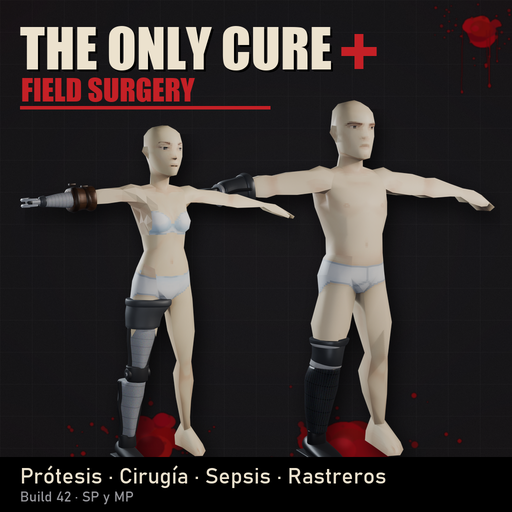
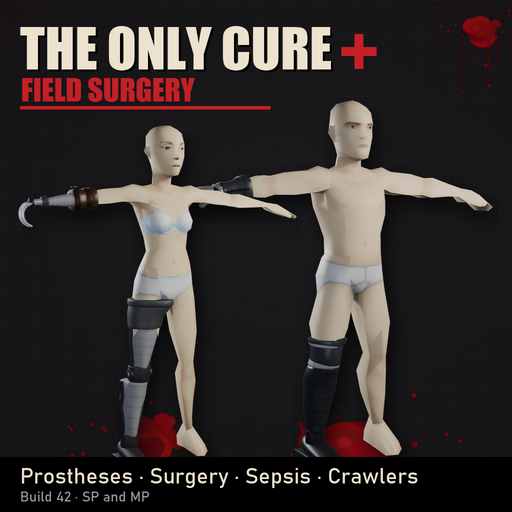
3.1.0: Workshop images, English poster, shorter description
- Workshop cards re-rendered with the 3.1.0 models; new cards for the chainsaw arm
  and for crawling ("zombies do not ignore you on the ground"); the arms card shows
  the above-elbow level; the items card adds the chainsaw arm.
- The mod poster/icon come from the English images.
- Workshop descriptions under Steam's 8000-character limit (changelog summarised,
  full history linked to CHANGELOG.md).

diff --git a/tools/make_workshop.py b/tools/make_workshop.py
@@ -18,6 +18,7 @@ EN = {
     "Cirugía de campo por etapas · Infección y sepsis": "Staged field surgery · Infection and sepsis",
     "Prótesis por niveles que encajan de verdad": "Prostheses that fit the stump, level by level",
     "Piernas, muletas y arrastre · Zombis rastreros": "Legs, crutches and crawling · Crawler zombies",
+    "Piernas, muletas y arrastre · Brazo motosierra": "Legs, crutches and crawling · Chainsaw arm",
     "Build 42 · Singleplayer y multijugador": "Build 42 · Singleplayer and multiplayer",
     "Fork de The Only Cure (ZioPao) · GPL-3.0": "Fork of The Only Cure (ZioPao) · GPL-3.0",
     "Prótesis · Cirugía · Sepsis · Rastreros": "Prostheses · Surgery · Sepsis · Crawlers",
@@ -28,6 +29,17 @@ EN = {
     "Caben bajo el pantalón": "They fit under trousers", "Se desgastan y se reparan": "They wear out and can be repaired",
     "PRÓTESIS DE BRAZO": "ARM PROSTHESES",
     "Brazo de madera · Gancho · Brazo mecánico · Brazo médico — por mano o por antebrazo": "Wooden arm · Hook · Mechanical arm · Medical arm — for a missing hand or forearm",
+    "Madera · Gancho · Mecánico · Médico — sin mano, sin antebrazo o sin brazo entero": "Wood · Hook · Mechanical · Medical — for a missing hand, forearm or whole arm",
+    "Por encima del codo: bisagra de codo": "Above the elbow: elbow hinge",
+    "Brazo motosierra": "Chainsaw Arm",
+    "Brazo motosierra estilo Ash: el motor al muñón, la espada en línea con el antebrazo": "Ash-style chainsaw arm: motor bolted to the stump, bar in line with the forearm",
+    "Tirón de arranque (la Mecánica ayuda)": "Pull-start (Mechanics helps)", "Depósito de 0,5 L: échale gasolina": "0.5 L tank: refuel with petrol",
+    "En marcha corta zombis y extremidades": "Running, it cuts zombies and limbs", "Ruido: lo oyen desde lejos": "Loud: they hear it from afar",
+    "Mano izquierda libre": "Left hand stays free", "Sólo brazo derecho": "Right arm only", "Mano, antebrazo o brazo entero": "Hand, forearm or whole arm",
+    "TUMBADO": "ON THE GROUND", "NO ESTÁS A SALVO": "YOU ARE NOT SAFE",
+    "Arrastrarte no te esconde: los zombis te ven, te oyen y te alcanzan.": "Crawling does not hide you: zombies see you, hear you and catch up.",
+    "Los zombis no te ignoran en el suelo": "Zombies do not ignore you on the ground", "Te mueves a paso de rastrero": "You move at a crawler's pace",
+    "Busca una muleta o una prótesis": "Find a crutch or a prosthesis", "Opera en un sitio cerrado": "Operate somewhere closed",
     "Cada tier con sus limitaciones": "Each tier has its limits", "Gancho: nada que exija dedos": "Hook: nothing that needs fingers",
     "Mecánico y médico: armas a dos manos": "Mechanical and medical: two-handed weapons", "Familiaridad con prótesis": "Prosthesis Familiarity skill",
     "CIRUGÍA DE CAMPO": "FIELD SURGERY",
@@ -199,12 +211,12 @@ def make_hero(w=1920, h=1080):
     d.text((200, 330), "FIELD SURGERY", font=font(F_TITLE, 120), fill=BONE)
     d.rectangle((84, 470, 820, 480), fill=RED)
     lines = ["Cirugía de campo por etapas · Infección y sepsis", "Prótesis por niveles que encajan de verdad",
-             "Piernas, muletas y arrastre · Zombis rastreros", "Build 42 · Singleplayer y multijugador"]
+             "Piernas, muletas y arrastre · Brazo motosierra", "Build 42 · Singleplayer y multijugador"]
     fy = 505
     for ln in lines:
         d.text((90, fy), ln, font=font(F_BODY, 40), fill=(215, 210, 200)); fy += 56
     d.text((90, h - 70), "Fork de The Only Cure (ZioPao) · GPL-3.0", font=font(F_BODY, 30), fill=GREY)
-    paste_render(img, "bonesaw", (380, 700, 980, 1040), rotate=-62)
+    paste_render(img, "bonesaw", (470, 730, 960, 1000), rotate=-62)
     img.convert("RGB").save(os.path.join(OUT, "hero.png")); print("hero.png")
 
 def make_preview(size=1024):
@@ -251,7 +263,7 @@ def make_card(name, renders, title, sub, bullets, w=1600, h=900, blood_before=()
     img.convert("RGB").save(os.path.join(OUT, "card_%s.png" % name)); print("card_%s.png" % name)
 
 ITEMS = [("BoneSaw", "Sierra de hueso"), ("SurgicalKit", "Kit quirúrgico"), ("FieldSurgeryGuide", "Guía de cirugía"), ("Crutch", "Muleta"), ("LegTourniquet", "Torniquete de pierna"),
-         ("PegArm", "Brazo de madera"), ("HookArm", "Gancho"), ("MechArm", "Brazo mecánico"), ("MedicalArm", "Brazo médico"),
+         ("PegArm", "Brazo de madera"), ("HookArm", "Gancho"), ("MechArm", "Brazo mecánico"), ("MedicalArm", "Brazo médico"), ("ChainsawArm", "Brazo motosierra"),
          ("PegLeg", "Pata de palo"), ("MechLeg", "Pierna mecánica"), ("MedicalLeg", "Pierna médica"),
          ("SeveredHand", "Mano cercenada"), ("SeveredForeArm", "Antebrazo cercenado"), ("SeveredUpperArm", "Brazo cercenado"),
          ("SeveredFoot", "Pie cercenado"), ("SeveredLowerLeg", "Pantorrilla cercenada"), ("SeveredUpperLeg", "Muslo cercenado")]
@@ -265,15 +277,18 @@ def make_items_card(w=1600, h=900):
     d.text((44, 34), "NUEVOS ÍTEMS", font=font(F_TITLE, 84), fill=(0, 0, 0)); d.text((40, 30), "NUEVOS ÍTEMS", font=font(F_TITLE, 84), fill=BONE)
     d.rectangle((40, 122, 40 + d.textlength("NUEVOS ÍTEMS", font=font(F_TITLE, 84)), 128), fill=RED)
     d.text((40, 140), "Iconos 32x32 renderizados de los modelos · todos con modelo 3D en el suelo", font=font(F_BODY, 32), fill=GREY)
-    cols, cell, x0, y0 = 6, 170, 40, 200
+    cols, cell, x0, y0 = 7, 150, 40, 200
     fl = font(F_BODY, 20)
     for i, (nm, label) in enumerate(ITEMS):
-        cx = x0 + (i % cols) * (cell + 18); cy = y0 + (i // cols) * (cell + 16)
+        cx = x0 + (i % cols) * (cell + 14); cy = y0 + (i // cols) * (cell + 16)
         d.rounded_rectangle((cx, cy, cx + cell, cy + cell), radius=10, fill=(0, 0, 0, 110), outline=(255, 255, 255, 25))
-        ic = Image.open(os.path.join(TEXD, "Item_%s.png" % nm)).convert("RGBA").resize((112, 112), Image.NEAREST)
-        img.alpha_composite(ic, (cx + (cell - 112) // 2, cy + 10))
-        tw = d.textlength(label, font=fl)
-        d.text((cx + (cell - tw) / 2, cy + cell - 36), label, font=fl, fill=(225, 220, 210))
+        ic = Image.open(os.path.join(TEXD, "Item_%s.png" % nm)).convert("RGBA").resize((96, 96), Image.NEAREST)
+        img.alpha_composite(ic, (cx + (cell - 96) // 2, cy + 12))
+        fsz = 20; fl2 = fl
+        while d.textlength(label, font=fl2) > cell - 10 and fsz > 13:
+            fsz -= 1; fl2 = font(F_BODY, fsz)
+        tw = d.textlength(label, font=fl2)
+        d.text((cx + (cell - tw) / 2, cy + cell - 34), label, font=fl2, fill=(225, 220, 210))
     d.text((1180, 200), "En el suelo", font=font(F_BOLD, 26), fill=GREY)
     paste_render(img, "prop_hook", (1180, 240, 1560, 440))
     paste_render(img, "prop_mechleg", (1180, 440, 1560, 640))
@@ -396,6 +411,60 @@ def make_noise_card(w=1600, h=900):
         d.rectangle((x, h - 44, x + 10, h - 34), fill=RED); d.text((x + 20, h - 52), b, font=fb, fill=(220, 215, 205)); x += d.textlength(b, font=fb) + 60
     img.convert("RGB").save(os.path.join(OUT, "card_noise.png")); print("card_noise.png")
 
+
+def footer(img, d, bullets, w, h):
+    d.rectangle((0, h - 100, w, h), fill=(0, 0, 0, 170))
+    fb = font(F_BODY, 26); x = 40; yy = h - 86
+    for b in bullets:
+        tw = d.textlength(b, font=fb)
+        if x + tw + 30 > w - 40: x = 40; yy += 34
+        d.rectangle((x, yy + 8, x + 10, yy + 18), fill=RED); d.text((x + 20, yy), b, font=fb, fill=(220, 215, 205)); x += tw + 60
+
+def make_chainsaw_card(w=1600, h=900):
+    """Brazo motosierra: el golpe en grande, el brazo en reposo y el acople de cerca."""
+    img = background(w, h, 314).convert("RGBA")
+    red_vignette(img, 120)
+    add_blood(img, [(300, 640, 130, 0), (560, 420, 70, 2), (170, 760, 90, 1), (1460, 820, 80, 0)], seed=66)
+    paste_render(img, "saw_attack", (-20, 215, 840, 900))
+    paste_render(img, "saw_idle", (830, 225, 1220, 885), soft=True)
+    box = (1235, 235, 1580, 580)
+    d = ImageDraw.Draw(img, "RGBA")
+    d.rounded_rectangle((box[0] - 6, box[1] - 6, box[2] + 6, box[3] + 6), radius=14, fill=(0, 0, 0, 150), outline=(196, 32, 38, 200), width=3)
+    paste_render(img, "saw_close", box, shadow=False)
+    add_blood(img, [(560, 430, 50, 3), (600, 470, 30, 4)], seed=77)
+    d = ImageDraw.Draw(img)
+    d.text((44, 34), "GROOVY.", font=font(F_TITLE, 96), fill=(0, 0, 0)); d.text((40, 30), "GROOVY.", font=font(F_TITLE, 96), fill=RED)
+    d.rectangle((40, 136, 40 + d.textlength("GROOVY.", font=font(F_TITLE, 96)), 143), fill=BONE)
+    d.text((40, 156), "Brazo motosierra estilo Ash: el motor al muñón, la espada en línea con el antebrazo", font=font(F_BODY, 30), fill=(215, 210, 200))
+    d.text((box[0], box[3] + 14), "Mano, antebrazo o brazo entero", font=font(F_BODY, 22), fill=GREY)
+    footer(img, d, ["Tirón de arranque (la Mecánica ayuda)", "Depósito de 0,5 L: échale gasolina", "En marcha corta zombis y extremidades",
+                    "Ruido: lo oyen desde lejos", "Mano izquierda libre", "Sólo brazo derecho"], w, h)
+    img.convert("RGB").save(os.path.join(OUT, "card_chainsaw.png")); print("card_chainsaw.png")
+
+def make_findyou_card(w=1600, h=900):
+    """Aclara lo que la frase vieja del arrastre daba a entender: en el suelo los zombis NO te ignoran."""
+    img = background(w, h, 271).convert("RGBA")
+    red_vignette(img, 140)
+    d = ImageDraw.Draw(img, "RGBA")
+    d.polygon([(0, 600), (w, 560), (w, h), (0, h)], fill=(30, 28, 30, 255))
+    for y in range(580, h, 28): d.line((0, y + 20, w, y), fill=(255, 255, 255, 6))
+    blood_smear(img, (1180, 720), (720, 780), 60, seed=9)
+    # zombis acercándose desde los lados y desde el fondo
+    zs = [("noise_zombie0", (40, 330, 400, 880)), ("noise_zombie1", (1190, 300, 1560, 880)), ("noise_zombie2", (990, 300, 1240, 700))]
+    for name, b in zs: paste_render(img, name, b, mirror=(name == "noise_zombie0"))
+    pbox = paste_render(img, "crawl2", (360, 470, 1160, 880))
+    add_blood(img, [(pbox[0] + 470, pbox[3] - 90, 55, 0)], seed=19)
+    d = ImageDraw.Draw(img)
+    cx, cy = (pbox[0] + pbox[2]) // 2, (pbox[1] + pbox[3]) // 2 + 20
+    for (x0, y0) in ((320, 580), (1270, 560), (1100, 520)):
+        arrow(d, (x0, y0), (cx + (x0 - cx) * 0.35, cy + (y0 - cy) * 0.35), (196, 32, 38, 255), width=6, head=22)
+    d.text((44, 34), "TUMBADO", font=font(F_TITLE, 96), fill=(0, 0, 0)); d.text((40, 30), "TUMBADO", font=font(F_TITLE, 96), fill=BONE)
+    d.text((40, 130), "NO ESTÁS A SALVO", font=font(F_TITLE, 96), fill=RED)
+    d.rectangle((40, 236, 40 + d.textlength("NO ESTÁS A SALVO", font=font(F_TITLE, 96)), 243), fill=RED)
+    d.text((40, 262), "Arrastrarte no te esconde: los zombis te ven, te oyen y te alcanzan.", font=font(F_BODY, 32), fill=(215, 210, 200))
+    footer(img, d, ["Los zombis no te ignoran en el suelo", "Te mueves a paso de rastrero", "Ni correr ni esprintar", "Busca una muleta o una prótesis"], w, h)
+    img.convert("RGB").save(os.path.join(OUT, "card_findyou.png")); print("card_findyou.png")
+
 def make_poster(size=512):
     img = Image.open(os.path.join(OUT, "preview.png")).convert("RGB").resize((size, size), Image.LANCZOS)
     img.save(os.path.join(OUT, "poster.png")); print("poster.png")
@@ -409,8 +478,10 @@ if __name__ == "__main__":
     make_card("legs", ["legs_peg", "legs_mech", "legs_medical"], "PRÓTESIS DE PIERNA", "Pata de palo · Pierna mecánica · Pierna médica — por nivel de amputación: pie, pantorrilla o muslo",
               ["Encajes a la medida del muñón", "Rodilla articulada en las de muslo", "Caben bajo el pantalón", "Se desgastan y se reparan"],
               blood_before=[(120, 800, 90, 0), (1380, 780, 70, 0)], vignette=50)
-    make_card("arms", ["arms_peg", "arms_hook", "arms_mech", "arms_medical"], "PRÓTESIS DE BRAZO", "Brazo de madera · Gancho · Brazo mecánico · Brazo médico — por mano o por antebrazo",
-              ["Cada tier con sus limitaciones", "Gancho: nada que exija dedos", "Mecánico y médico: armas a dos manos", "Familiaridad con prótesis"])
+    make_card("arms", ["arms_peg", "arms_hook", "arms_mech", "arms_medical"], "PRÓTESIS DE BRAZO", "Madera · Gancho · Mecánico · Médico — sin mano, sin antebrazo o sin brazo entero",
+              ["Cada tier con sus limitaciones", "Gancho: nada que exija dedos", "Mecánico y médico: armas a dos manos", "Por encima del codo: bisagra de codo"])
+    make_chainsaw_card()
+    make_findyou_card()
     make_card("surgery", ["stumps", "bonesaw", "crutch"], "CIRUGÍA DE CAMPO", "Prepara, incide, sierra, sutura y venda — con riesgo real, gritos y desmayos",
               ["Ventana de cura e infección visible", "Sepsis y convalecencia", "Sierra de hueso y kit quirúrgico", "Muleta o arrastre sin piernas"],
               blood_before=[(300, 790, 170, 0), (1020, 760, 120, 0)], blood_after=[(210, 650, 40, 5), (300, 640, 30, 3), (1420, 140, 50, 4)], vignette=90)

diff --git a/tools/patch_cards_310.py b/tools/patch_cards_310.py
@@ -1,0 +1,107 @@
+"""Portadas del Workshop para la 3.1.0 en make_workshop.py:
+- tarjeta de brazos: el mecánico va por encima del codo y el subtítulo lo dice;
+- tarjeta de ítems: icono del brazo motosierra (rejilla de 7 columnas);
+- tarjeta nueva "GROOVY.": brazo motosierra (renders saw_attack / saw_idle / saw_close);
+- tarjeta nueva "TUMBADO NO ESTÁS A SALVO": el personaje arrastrándose y los zombis yendo a por él (tres
+  personas leyeron en la descripción que en el suelo los zombis te ignoran).
+Uso: python patch_cards_310.py"""
+import os
+HERE = os.path.dirname(os.path.abspath(__file__))
+p = os.path.join(HERE, "make_workshop.py"); s = open(p, encoding="utf-8").read()
+
+def patch(old, new):
+    global s
+    assert old in s, old[:80]
+    s = s.replace(old, new, 1)
+
+# ---- textos en inglés
+patch('''    "Brazo de madera · Gancho · Brazo mecánico · Brazo médico — por mano o por antebrazo": "Wooden arm · Hook · Mechanical arm · Medical arm — for a missing hand or forearm",''',
+      '''    "Brazo de madera · Gancho · Brazo mecánico · Brazo médico — por mano o por antebrazo": "Wooden arm · Hook · Mechanical arm · Medical arm — for a missing hand or forearm",
+    "Madera · Gancho · Mecánico · Médico — sin mano, sin antebrazo o sin brazo entero": "Wood · Hook · Mechanical · Medical — for a missing hand, forearm or whole arm",
+    "Por encima del codo: bisagra de codo": "Above the elbow: elbow hinge",
+    "Brazo motosierra": "Chainsaw arm",
+    "Brazo motosierra estilo Ash: el motor al muñón, la espada en línea con el antebrazo": "Ash-style chainsaw arm: motor bolted to the stump, bar in line with the forearm",
+    "Tirón de arranque (la Mecánica ayuda)": "Pull-start (Mechanics helps)", "Depósito de 0,5 L: échale gasolina": "0.5 L tank: refuel with petrol",
+    "En marcha corta zombis y extremidades": "Running, it cuts zombies and limbs", "Ruido: lo oyen desde lejos": "Loud: they hear it from afar",
+    "Mano izquierda libre": "Left hand stays free", "Sólo brazo derecho": "Right arm only", "Mano, antebrazo o brazo entero": "Hand, forearm or whole arm",
+    "TUMBADO": "ON THE GROUND", "NO ESTÁS A SALVO": "YOU ARE NOT SAFE",
+    "Arrastrarte no te esconde: los zombis te ven, te oyen y te alcanzan.": "Crawling does not hide you: zombies see you, hear you and catch up.",
+    "Los zombis no te ignoran en el suelo": "Zombies do not ignore you on the ground", "Te mueves a paso de rastrero": "You move at a crawler's pace",
+    "Busca una muleta o una prótesis": "Find a crutch or a prosthesis", "Opera en un sitio cerrado": "Operate somewhere closed",''')
+
+# ---- tarjeta de brazos
+patch('''    make_card("arms", ["arms_peg", "arms_hook", "arms_mech", "arms_medical"], "PRÓTESIS DE BRAZO", "Brazo de madera · Gancho · Brazo mecánico · Brazo médico — por mano o por antebrazo",
+              ["Cada tier con sus limitaciones", "Gancho: nada que exija dedos", "Mecánico y médico: armas a dos manos", "Familiaridad con prótesis"])''',
+      '''    make_card("arms", ["arms_peg", "arms_hook", "arms_mech", "arms_medical"], "PRÓTESIS DE BRAZO", "Madera · Gancho · Mecánico · Médico — sin mano, sin antebrazo o sin brazo entero",
+              ["Cada tier con sus limitaciones", "Gancho: nada que exija dedos", "Mecánico y médico: armas a dos manos", "Por encima del codo: bisagra de codo"])
+    make_chainsaw_card()
+    make_findyou_card()''')
+
+# ---- ítems: icono del brazo motosierra, 7 columnas
+patch('''         ("PegArm", "Brazo de madera"), ("HookArm", "Gancho"), ("MechArm", "Brazo mecánico"), ("MedicalArm", "Brazo médico"),''',
+      '''         ("PegArm", "Brazo de madera"), ("HookArm", "Gancho"), ("MechArm", "Brazo mecánico"), ("MedicalArm", "Brazo médico"), ("ChainsawArm", "Brazo motosierra"),''')
+patch('''    cols, cell, x0, y0 = 6, 170, 40, 200''', '''    cols, cell, x0, y0 = 7, 150, 40, 200''')
+patch('''        cx = x0 + (i % cols) * (cell + 18); cy = y0 + (i // cols) * (cell + 16)''', '''        cx = x0 + (i % cols) * (cell + 14); cy = y0 + (i // cols) * (cell + 16)''')
+patch('''        ic = Image.open(os.path.join(TEXD, "Item_%s.png" % nm)).convert("RGBA").resize((112, 112), Image.NEAREST)
+        img.alpha_composite(ic, (cx + (cell - 112) // 2, cy + 10))''', '''        ic = Image.open(os.path.join(TEXD, "Item_%s.png" % nm)).convert("RGBA").resize((96, 96), Image.NEAREST)
+        img.alpha_composite(ic, (cx + (cell - 96) // 2, cy + 12))''')
+
+# ---- tarjetas nuevas
+NEW = r'''
+def footer(img, d, bullets, w, h):
+    d.rectangle((0, h - 100, w, h), fill=(0, 0, 0, 170))
+    fb = font(F_BODY, 26); x = 40; yy = h - 86
+    for b in bullets:
+        tw = d.textlength(b, font=fb)
+        if x + tw + 30 > w - 40: x = 40; yy += 34
+        d.rectangle((x, yy + 8, x + 10, yy + 18), fill=RED); d.text((x + 20, yy), b, font=fb, fill=(220, 215, 205)); x += tw + 60
+
+def make_chainsaw_card(w=1600, h=900):
+    """Brazo motosierra: el golpe en grande, el brazo en reposo y el acople de cerca."""
+    img = background(w, h, 314).convert("RGBA")
+    red_vignette(img, 120)
+    add_blood(img, [(330, 520, 210, 0), (520, 380, 90, 2), (180, 700, 120, 1), (1460, 820, 80, 0)], seed=66)
+    paste_render(img, "saw_attack", (-40, 150, 860, 900))
+    paste_render(img, "saw_idle", (820, 170, 1240, 880), soft=True)
+    box = (1230, 190, 1580, 540)
+    d = ImageDraw.Draw(img, "RGBA")
+    d.rounded_rectangle((box[0] - 6, box[1] - 6, box[2] + 6, box[3] + 6), radius=14, fill=(0, 0, 0, 150), outline=(196, 32, 38, 200), width=3)
+    paste_render(img, "saw_close", box, shadow=False)
+    add_blood(img, [(560, 430, 50, 3), (600, 470, 30, 4)], seed=77)
+    d = ImageDraw.Draw(img)
+    d.text((44, 34), "GROOVY.", font=font(F_TITLE, 96), fill=(0, 0, 0)); d.text((40, 30), "GROOVY.", font=font(F_TITLE, 96), fill=RED)
+    d.rectangle((40, 136, 40 + d.textlength("GROOVY.", font=font(F_TITLE, 96)), 143), fill=BONE)
+    d.text((40, 156), "Brazo motosierra estilo Ash: el motor al muñón, la espada en línea con el antebrazo", font=font(F_BODY, 30), fill=(215, 210, 200))
+    d.text((box[0], box[3] + 14), "Mano, antebrazo o brazo entero", font=font(F_BODY, 22), fill=GREY)
+    footer(img, d, ["Tirón de arranque (la Mecánica ayuda)", "Depósito de 0,5 L: échale gasolina", "En marcha corta zombis y extremidades",
+                    "Ruido: lo oyen desde lejos", "Mano izquierda libre", "Sólo brazo derecho"], w, h)
+    img.convert("RGB").save(os.path.join(OUT, "card_chainsaw.png")); print("card_chainsaw.png")
+
+def make_findyou_card(w=1600, h=900):
+    """Aclara lo que la frase vieja del arrastre daba a entender: en el suelo los zombis NO te ignoran."""
+    img = background(w, h, 271).convert("RGBA")
+    red_vignette(img, 140)
+    d = ImageDraw.Draw(img, "RGBA")
+    d.polygon([(0, 600), (w, 560), (w, h), (0, h)], fill=(30, 28, 30, 255))
+    for y in range(580, h, 28): d.line((0, y + 20, w, y), fill=(255, 255, 255, 6))
+    blood_smear(img, (1180, 720), (720, 780), 60, seed=9)
+    # zombis acercándose desde los lados y desde el fondo
+    zs = [("noise_zombie0", (40, 250, 420, 860)), ("noise_zombie1", (1180, 230, 1560, 860)), ("noise_zombie2", (980, 170, 1260, 640))]
+    for name, b in zs: paste_render(img, name, b, mirror=(name == "noise_zombie0"))
+    pbox = paste_render(img, "crawl2", (360, 470, 1160, 880))
+    add_blood(img, [(pbox[0] + 470, pbox[3] - 90, 55, 0)], seed=19)
+    d = ImageDraw.Draw(img)
+    cx, cy = (pbox[0] + pbox[2]) // 2, (pbox[1] + pbox[3]) // 2 + 20
+    for (x0, y0) in ((330, 520), (1270, 500), (1100, 430)):
+        arrow(d, (x0, y0), (cx + (x0 - cx) * 0.35, cy + (y0 - cy) * 0.35), (196, 32, 38, 255), width=6, head=22)
+    d.text((44, 34), "TUMBADO", font=font(F_TITLE, 96), fill=(0, 0, 0)); d.text((40, 30), "TUMBADO", font=font(F_TITLE, 96), fill=BONE)
+    d.text((40, 130), "NO ESTÁS A SALVO", font=font(F_TITLE, 96), fill=RED)
+    d.rectangle((40, 236, 40 + d.textlength("NO ESTÁS A SALVO", font=font(F_TITLE, 96)), 243), fill=RED)
+    d.text((40, 262), "Arrastrarte no te esconde: los zombis te ven, te oyen y te alcanzan.", font=font(F_BODY, 32), fill=(215, 210, 200))
+    footer(img, d, ["Los zombis no te ignoran en el suelo", "Te mueves a paso de rastrero", "Ni correr ni esprintar", "Busca una muleta o una prótesis"], w, h)
+    img.convert("RGB").save(os.path.join(OUT, "card_findyou.png")); print("card_findyou.png")
+'''
+patch('''def make_poster(size=512):''', NEW + '''
+def make_poster(size=512):''')
+open(p, "w", encoding="utf-8", newline="\n").write(s)
+print("make_workshop.py: tarjetas 3.1.0 añadidas")

diff --git a/tools/make_workshop_folder.py b/tools/make_workshop_folder.py
@@ -14,19 +14,20 @@ WS = r"C:\Users\nexco\Zomboid\Workshop\TheOnlyCurePlus"
 
 DESC_EN = open(os.path.join(HERE, "workshop_description_EN.txt"), encoding="utf-8").read()
 
-# 1. póster e icono del mod
-shutil.copy(os.path.join(W, "poster.png"), os.path.join(MOD, "42", "poster.png"))
-shutil.copy(os.path.join(W, "icon.png"), os.path.join(MOD, "42", "icon.png"))
-shutil.copy(os.path.join(W, "poster.png"), os.path.join(MOD, "poster.png"))
-shutil.copy(os.path.join(W, "icon.png"), os.path.join(MOD, "icon.png"))
+# 1. póster e icono del mod (versión en inglés: el Workshop va sólo en inglés)
+WI = os.path.join(W, "en") if os.path.exists(os.path.join(W, "en", "poster.png")) else W
+shutil.copy(os.path.join(WI, "poster.png"), os.path.join(MOD, "42", "poster.png"))
+shutil.copy(os.path.join(WI, "icon.png"), os.path.join(MOD, "42", "icon.png"))
+shutil.copy(os.path.join(WI, "poster.png"), os.path.join(MOD, "poster.png"))
+shutil.copy(os.path.join(WI, "icon.png"), os.path.join(MOD, "icon.png"))
 
 # 2. mod.info (42 y raíz si existe)
 INFO = """name=The Only Cure+ (Field Surgery)
 poster=poster.png
 icon=icon.png
-description=Fork of ZioPao's The Only Cure for Build 42. Staged field surgery with real risk, visible infection window and diagnosis, sepsis and convalescence, prosthesis tiers that wear out and fit the stump (foot, calf or thigh; hand or forearm), leg amputations with crutches, crawling and above-knee prostheses, crawler zombies, severed limbs as items. Enable only one of The Only Cure / The Only Cure+.
+description=Fork of ZioPao's The Only Cure for Build 42. Staged field surgery with real risk, visible infection window and diagnosis, sepsis and convalescence, prosthesis tiers that wear out and fit the stump (foot, calf or thigh; hand, forearm or upper arm), leg amputations with crutches, crawling and above-knee prostheses, an Ash-style chainsaw arm, crawler zombies, severed limbs as items. Enable only one of The Only Cure / The Only Cure+.
 id=TheOnlyCurePlus
-url=https://github.com/ZioPao/The-Only-Cure
+url=https://github.com/Nexconker/TheOnlyCurePlus
 modversion=3.1.0
 versionMin=42.20
 loadModAfter=\\FancyHandwork,\\BrutalHandwork,\\TwoWeaponsOnBackRework
@@ -60,8 +61,9 @@ lines = ["version=1"] + (["id=" + item_id] if item_id else []) + ["title=The Onl
 # descripción larga con cirílico/coreano devolvió result=2. La completa se pega a mano en la web de Steam
 # (tools/workshop_description_EN.txt).
 SHORT = ["The Only Cure+ (Field Surgery) for Build 42: staged field surgery, infection and sepsis,",
-         "prostheses that fit the stump, legs, crutches and crawling, crawler zombies. SP and MP.",
-         "Full description, changelog and languages on the Steam page."]
+         "prostheses that fit the stump (now above the elbow too), an Ash-style chainsaw arm,",
+         "legs, crutches and crawling, crawler zombies. SP and MP.",
+         "Full description, changelog and languages on the Steam page. Bugs: github.com/Nexconker/TheOnlyCurePlus"]
 for ln in SHORT:
     assert all(ord(c) < 128 for c in ln)
     lines.append("description=" + ln)

diff --git a/tools/shorten_changelog.py b/tools/shorten_changelog.py
@@ -1,0 +1,39 @@
+"""Steam limita la descripción a 8000 caracteres: el apartado de cambios de las descripciones del Workshop se deja
+en un resumen de la última versión y un enlace al CHANGELOG completo de GitHub.
+Uso: python shorten_changelog.py"""
+import os
+HERE = os.path.dirname(os.path.abspath(__file__))
+LINK = "https://github.com/Nexconker/TheOnlyCurePlus/blob/main/CHANGELOG.md"
+NEW = {
+ "EN": ("[h2]Changelog[/h2]", "[h2]Compatibility[/h2]", """[h2]Changelog[/h2]
+[b]3.1.0[/b]
+[list]
+[*]New: Ash-style chainsaw arm, and prostheses above the elbow for every arm tier.
+[*]Fixed: dark stripe around the shoulder (arm stumps are now cut from the body), skin poking through arm prostheses, wrong stump texture on zombies.
+[*]Fixed: Bandits console errors, glass and cuts coming back in multiplayer, leg amputee traits unable to move (they start with a crutch; one leg without a crutch crawls), prostheses that would not go on a right stump.
+[*]Changed: arm prostheses sized like the real arm, new mechanical and medical hands, the hook curves inwards.
+[*]New sandbox options: sleeping pills as anaesthesia (30 by default), self-amputation above the elbow and knee.
+[/list]
+Full history: [url=""" + LINK + """]CHANGELOG on GitHub[/url].
+
+"""),
+ "ES": ("[h2]Cambios[/h2]", "[h2]Compatibilidad[/h2]", """[h2]Cambios[/h2]
+[b]3.1.0[/b]
+[list]
+[*]Nuevo: brazo motosierra estilo Ash y prótesis por encima del codo para todos los tipos de brazo.
+[*]Corregido: raya oscura en el hombro (los muñones de brazo se recortan del propio cuerpo), piel que asomaba por las prótesis de brazo, textura de muñón equivocada en zombis.
+[*]Corregido: errores con Bandits, cristales y cortes que volvían en multijugador, rasgos de pierna amputada sin poder moverse (empiezan con muleta; con una pierna y sin muleta se arrastran), prótesis que no se ponían en un muñón derecho.
+[*]Cambiado: prótesis de brazo del tamaño del brazo real, manos mecánica y médica nuevas, el gancho se curva hacia dentro.
+[*]Nuevas opciones de sandbox: somníferos como anestesia (30 por defecto) y amputarse uno mismo por encima del codo y la rodilla.
+[/list]
+Historial completo: [url=""" + LINK + """]CHANGELOG en GitHub[/url].
+
+"""),
+}
+for lang, (start, end, text) in NEW.items():
+    p = os.path.join(HERE, "workshop_description_%s.txt" % lang)
+    s = open(p, encoding="utf-8").read()
+    i, j = s.index(start), s.index(end)
+    s = s[:i] + text + s[j:]
+    open(p, "w", encoding="utf-8", newline="\n").write(s)
+    print(lang, len(s), "caracteres", "OK" if len(s) <= 8000 else "SE PASA")

diff --git a/tools/render_combos.py b/tools/render_combos.py
@@ -109,7 +109,9 @@ def combos(sex):
     C.append(("Antebrazo izq. amputado", [3, 4], [xx("Amputation/ArmStump_Left_ForeArm_%s.X" % S, armtex("Forearm"))]))
     C.append(("Brazo izq. amputado", [3, 4], [xx("Amputation/ArmStump_Left_UpperArm_%s.X" % S, armtex("Upperarm"))]))
     for lbl, nm, tex in (("brazo de madera", "pegArm", "pegArm"), ("gancho", "hookArm", "hookArm"), ("brazo mecanico", "normalArm", "normalArm"), ("brazo medico", "medicalArm", "medicalArm")):
-        C.append(("Antebrazo + " + lbl, [3, 4], [xx("Amputation/ArmStump_Left_ForeArm_%s.X" % S, armtex("Forearm")), xx("Prosthesis/%s_L_%s.X" % (nm, sx), "Prosthesis/%s.png" % tex)]))
+        # con prótesis el juego usa el muñón recortado bajo el encaje (modelo alternativo, 3.1.0)
+        C.append(("Antebrazo + " + lbl, [3, 4], [xx("Amputation/ArmStumpProst_Left_ForeArm_%s.X" % S, armtex("Forearm")), xx("Prosthesis/%s_L_%s.X" % (nm, sx), "Prosthesis/%s.png" % tex)]))
+        C.append(("Brazo + " + lbl, [3, 4], [xx("Amputation/ArmStumpProst_Left_UpperArm_%s.X" % S, armtex("Upperarm")), xx("Prosthesis/%sUpper_L_%s.X" % (nm, sx), "Prosthesis/%s.png" % tex)]))
         C.append(("Mano izq. + " + lbl, [4], [xx("Amputation/ArmStump_Left_Hand_%s.X" % S, armtex("Hand")), xx("Prosthesis/%sWrist_L_%s.X" % (nm, sx), "Prosthesis/%s.png" % tex)]))
     C.append(("Torniquete de brazo", [], [fb("Surgery/Tourniquet_Left.fbx", "Surgery/tourniquet.png")]))
     # piernas (lado izquierdo). masks: 7 LeftLeg, 8 LeftFoot

diff --git a/tools/export_scene.py b/tools/export_scene.py
@@ -53,7 +53,7 @@ scenes = {
     "legs_medical": character("Female", "Pie izq. + pierna medica"),
     "arms_peg": character("Male", "Antebrazo + brazo de madera"),
     "arms_hook": character("Female", "Antebrazo + gancho"),
-    "arms_mech": character("Male", "Antebrazo + brazo mecanico"),
+    "arms_mech": character("Male", "Brazo + brazo mecanico"),          # 3.1.0: el nivel nuevo, por encima del codo
     "arms_medical": character("Female", "Mano izq. + brazo medico"),
     "stumps": multi("Male", ["Pantorrilla izq. amputada", "Antebrazo izq. amputado"]),
 }
